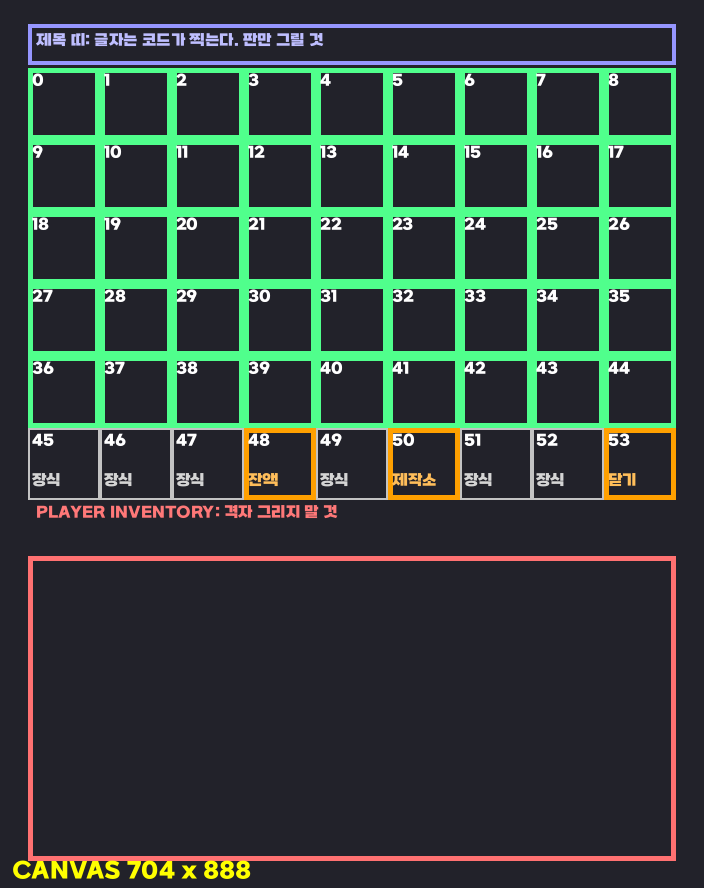
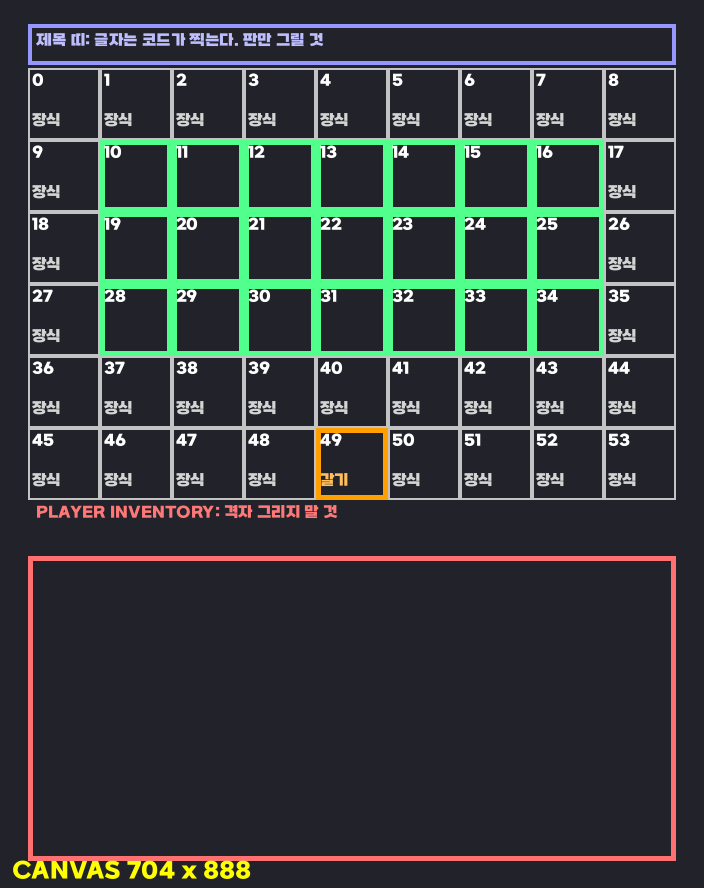
분해창을 넣고-갈기 형태로 — 45칸 목록을 3x7 제출칸으로
부품은 이제 실물 아이템이다(EquipmentManager.buildPartItem, PDC 태그). 지금
화면이 자동 목록인 건 부품이 데이터였던 시절의 잔재고, partInventory 도 스타터킷이
아직 거기에 넣고 있을 뿐이다(prod 17명 중 대부분 딱 4칸 = 스타터 세트).

그래서 판매창과 같은 얼개로 바꾼다: 가운데 3x7(21칸)에 넣고 아래 가운데 「갈기」
한 번. 한 번에 모자라면 여러 번 갈면 되므로 칸을 더 늘리지 않는다. 아래 정보바
세 칸(잔액·제작소 이동·닫기)도 없앤다 — 잔액은 제목 줄로, 제작소는 대장간 허브로,
닫기는 Esc.

★자바 재작성은 그림이 온 뒤: 드롭박스 전환 + 넣은 것 되돌려주기(판매창에서
아이템이 증발했던 전례가 있다).

Changed region(s): [[0.0312, 0.0608, 0.9688, 0.5777]]

diff --git a/gui-forge/make_page_layouts.py b/gui-forge/make_page_layouts.py
@@ -52,10 +52,12 @@ PAGES = {
         **{s: ("홈", "그리드") for s in (15, 16, 17, 24, 25, 26, 33, 34, 35)},
         43: ("홈", "미리보기"), 52: ("홈", "제작"),
     }, "장식"),
-    # 부품 분해 — 0~44 통째로 넣는 칸, 45~53 정보바
+    # 부품 분해 — 실물 부품·재료를 넣고 「갈기」 한 번. 판매창과 같은 3x7 안쪽 영역.
+    # (부품은 PDC 태그가 붙은 진짜 아이템이다 — buildPartItem. 넣을 수 있다.)
+    # 한 번에 21칸이 부족하면 여러 번 갈면 되므로 더 키우지 않는다.
     "disassemble": (6, {
-        **{s: ("입력", "") for s in range(45)},
-        48: ("홈", "잔액"), 50: ("홈", "제작소"), 53: ("홈", "닫기"),
+        **{s: ("입력", "") for r in range(3) for s in range(10 + r * 9, 17 + r * 9)},
+        49: ("홈", "갈기"),
     }, "장식"),
     # 재료 제작소 — 9~44 목록, 0 분해로, 8 닫기, 49 잔액
     "forge": (6, {
